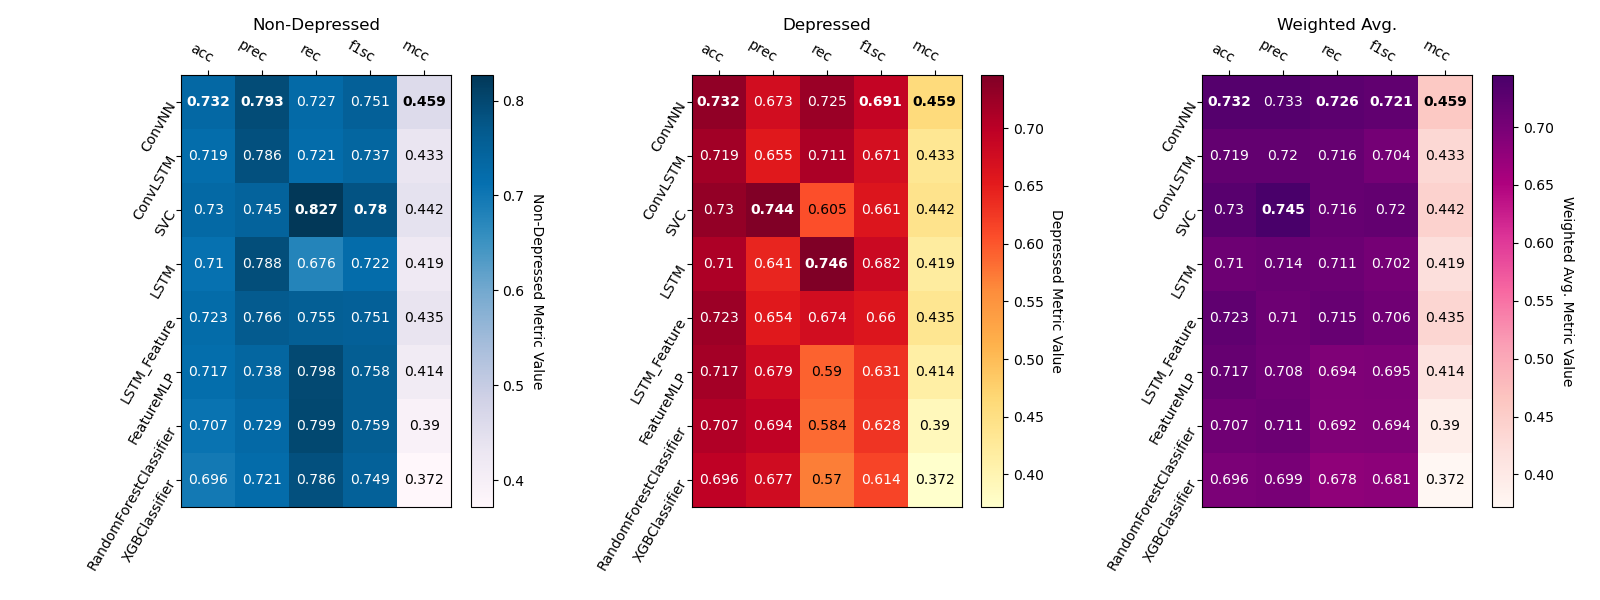
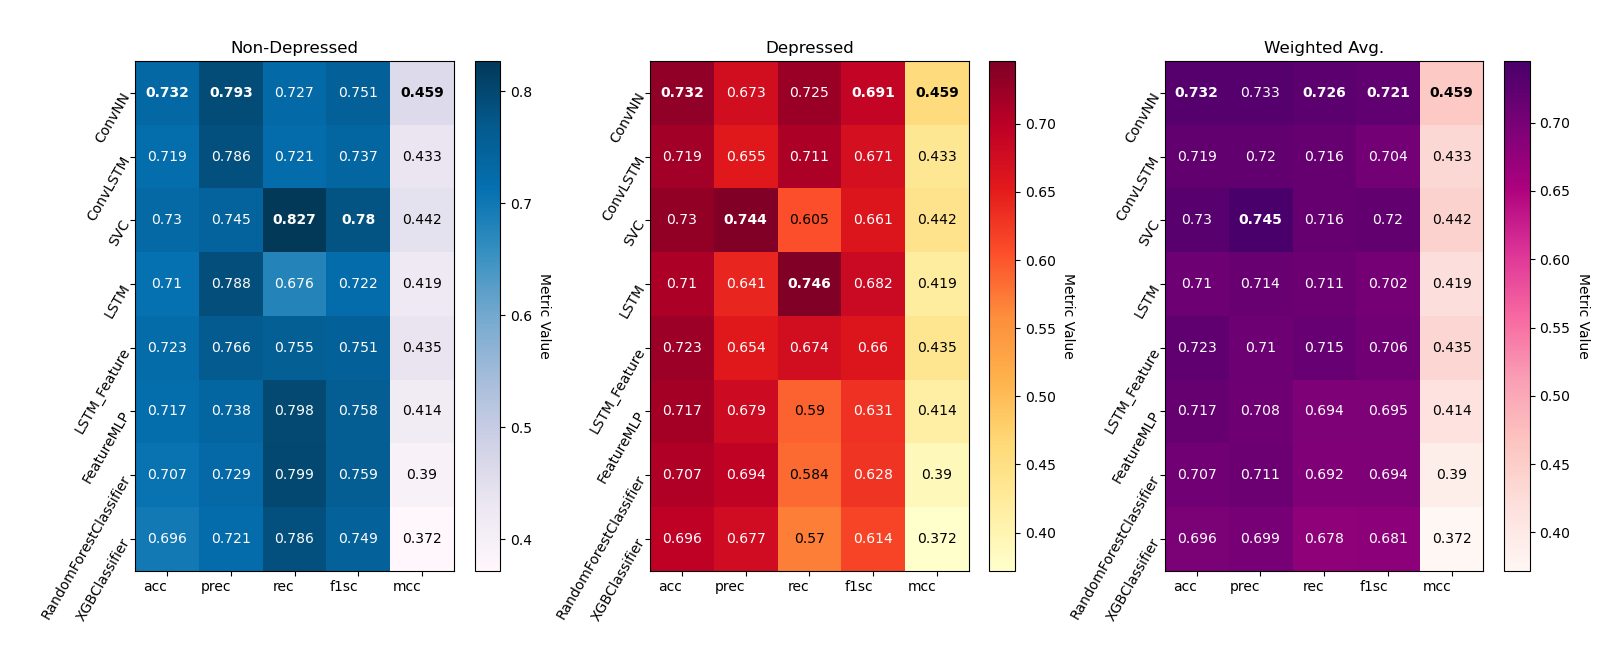
weighted metric tweaks

Changed region(s): [[0.3438, 0.03, 1.0, 0.96], [0.0312, 0.03, 0.3438, 0.96]]

diff --git a/results.py b/results.py
@@ -21,7 +21,7 @@ def plot_class_comparisons(results:pd.DataFrame, class_val, ax, title, cbarlabel
     cbar = ax.figure.colorbar(im, ax=ax, fraction=0.07, pad=0.05)
     cbar.ax.set_ylabel(cbarlabel, rotation=-90, va="bottom")
 
-    ax.set_xticks(range(len(metrics)), labels=metrics, rotation=-30, ha="right", rotation_mode="anchor")
+    ax.set_xticks(range(len(metrics)), labels=metrics, rotation=0, ha="right", rotation_mode="anchor")
     ax.set_yticks(range(len(classes)), labels=classes, rotation=60, ha="right", rotation_mode="anchor")
 
     threshold = im.norm(values.max())/1.6
@@ -32,8 +32,6 @@ def plot_class_comparisons(results:pd.DataFrame, class_val, ax, title, cbarlabel
             fontweight = 'bold' if values[i,j] == values[:,j].max() else None
             text = ax.text(j, i, values[i, j], ha="center", va="center", color=color, fontweight=fontweight)
 
-    ax.tick_params(top=True, bottom=False,
-                   labeltop=True, labelbottom=False)
     ax.set_title(title)
 
 # aggregate all final results into a single dataframe
@@ -44,19 +42,19 @@ for filename in filenames:
     if filename == FILENAME:
         continue
     model_results = pd.read_csv(os.path.join(RESULTS_DIR, filename), index_col=0)
-    model_results = metric_class_averages(model_results[model_results['note']=='wt_avg'])
+    model_results = metric_class_averages(model_results[model_results['note']=='wt_avg'], weight_support=False)
     results.append(model_results)
 
-final_results = pd.concat(results)
+final_results = pd.concat(results).reset_index(drop=True)
 final_results = final_results.drop(labels=['sup', 'loss'], axis=1)
 final_results = final_results.map(lambda x : round(x,3) if isinstance(x,float) else x)
 final_results.to_csv(os.path.join(RESULTS_DIR, FILENAME))
 print(final_results)
 
-fig, (ax1, ax2, ax3) = plt.subplots(1, 3, figsize=(16,6))
-fig.tight_layout(pad=5)
-plot_class_comparisons(final_results, class_val=0, ax=ax1, title="Non-Depressed", cbarlabel="Non-Depressed Metric Value", colormap='PuBu')
-plot_class_comparisons(final_results, class_val=1, ax=ax2, title="Depressed", cbarlabel="Depressed Metric Value", colormap='YlOrRd')
-plot_class_comparisons(final_results, class_val='wt_avg', ax=ax3, title="Weighted Avg.", cbarlabel="Weighted Avg. Metric Value", colormap='RdPu')
-fig.savefig(os.path.join(FIG_DIR, "heatmaps.png"))
+fig, (ax1, ax2, ax3) = plt.subplots(1, 3, figsize=(16,6.5))
+fig.tight_layout(pad=4)
+plot_class_comparisons(final_results, class_val=0, ax=ax1, title="Non-Depressed", cbarlabel="Metric Value", colormap='PuBu')
+plot_class_comparisons(final_results, class_val=1, ax=ax2, title="Depressed", cbarlabel="Metric Value", colormap='YlOrRd')
+plot_class_comparisons(final_results, class_val='wt_avg', ax=ax3, title="Macro Average.", cbarlabel="Metric Value", colormap='RdPu')
+fig.savefig(os.path.join(FIG_DIR, "heatmaps_macro.png"))
 plt.show()

diff --git a/core/eval.py b/core/eval.py
@@ -219,7 +219,6 @@ def metric_class_averages(metric_df : pd.DataFrame, weight_support = False):
     # calculate class ratio
     support_values = metric_df[['sup0', 'sup1']].copy()
     support_ratio = (support_values['sup0'] / support_values['sup1']).item()
-    print(support_ratio)
     if weight_support == False:
         support_ratio = 1
 
